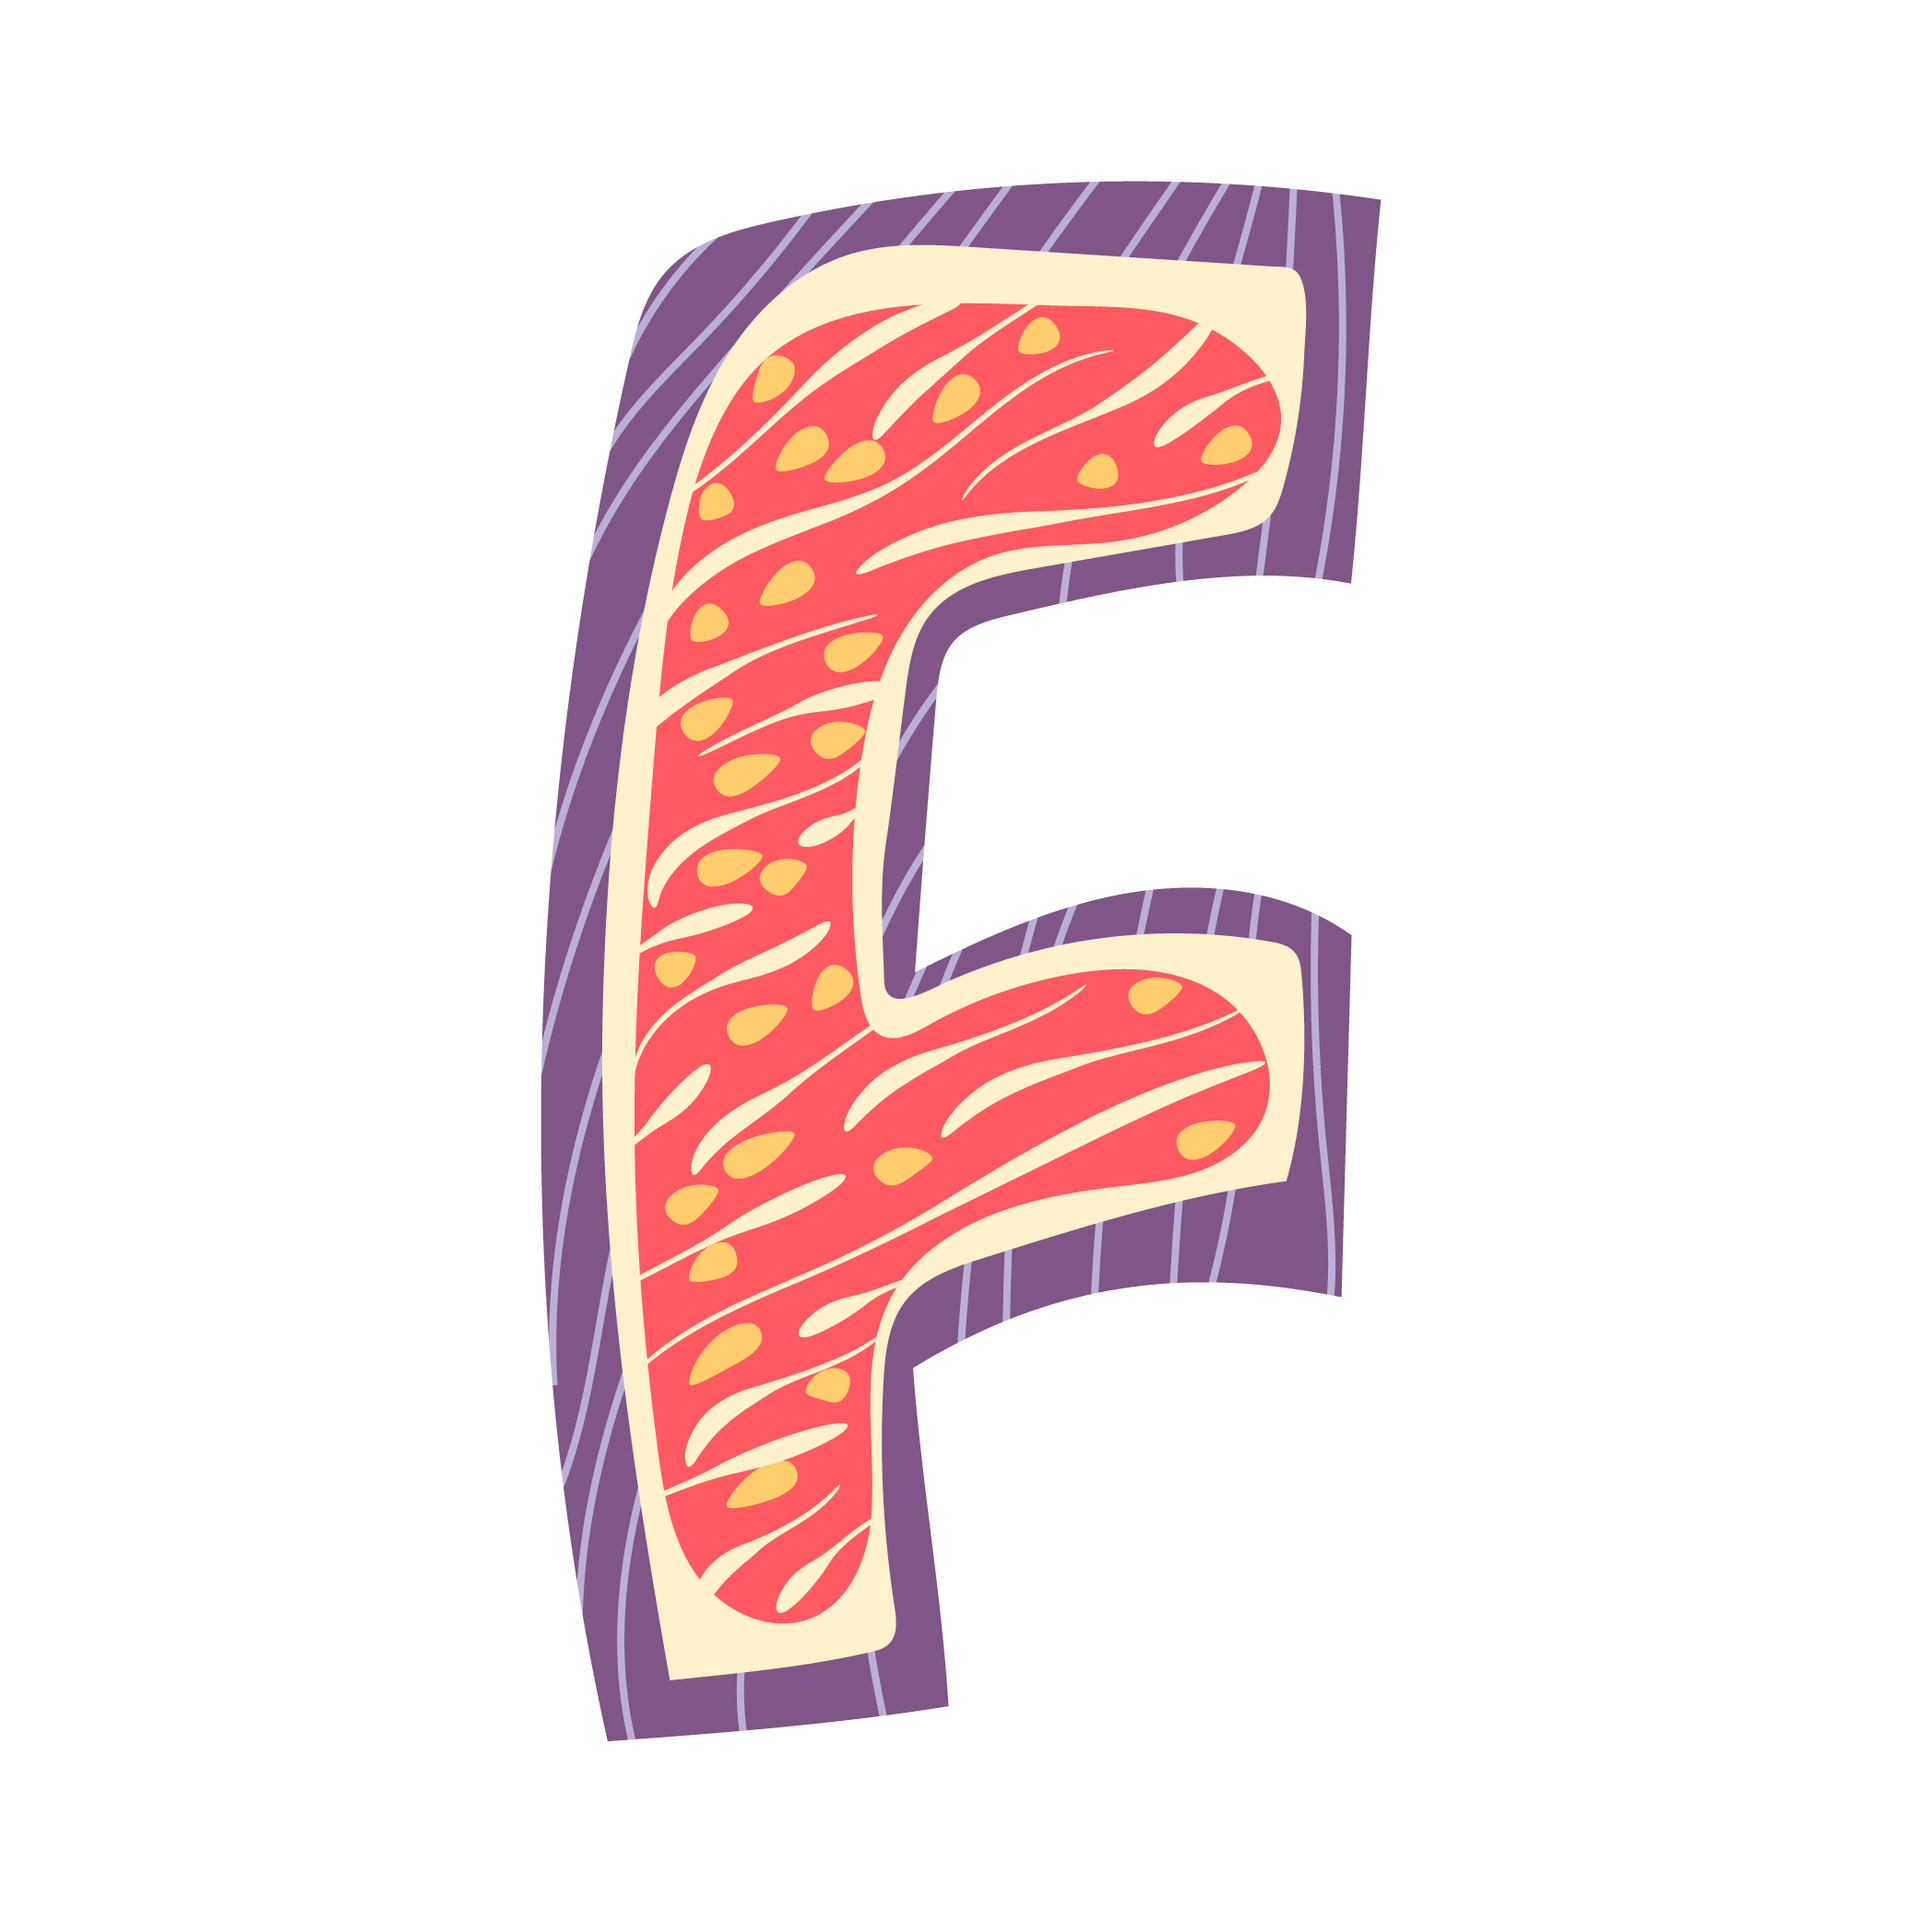
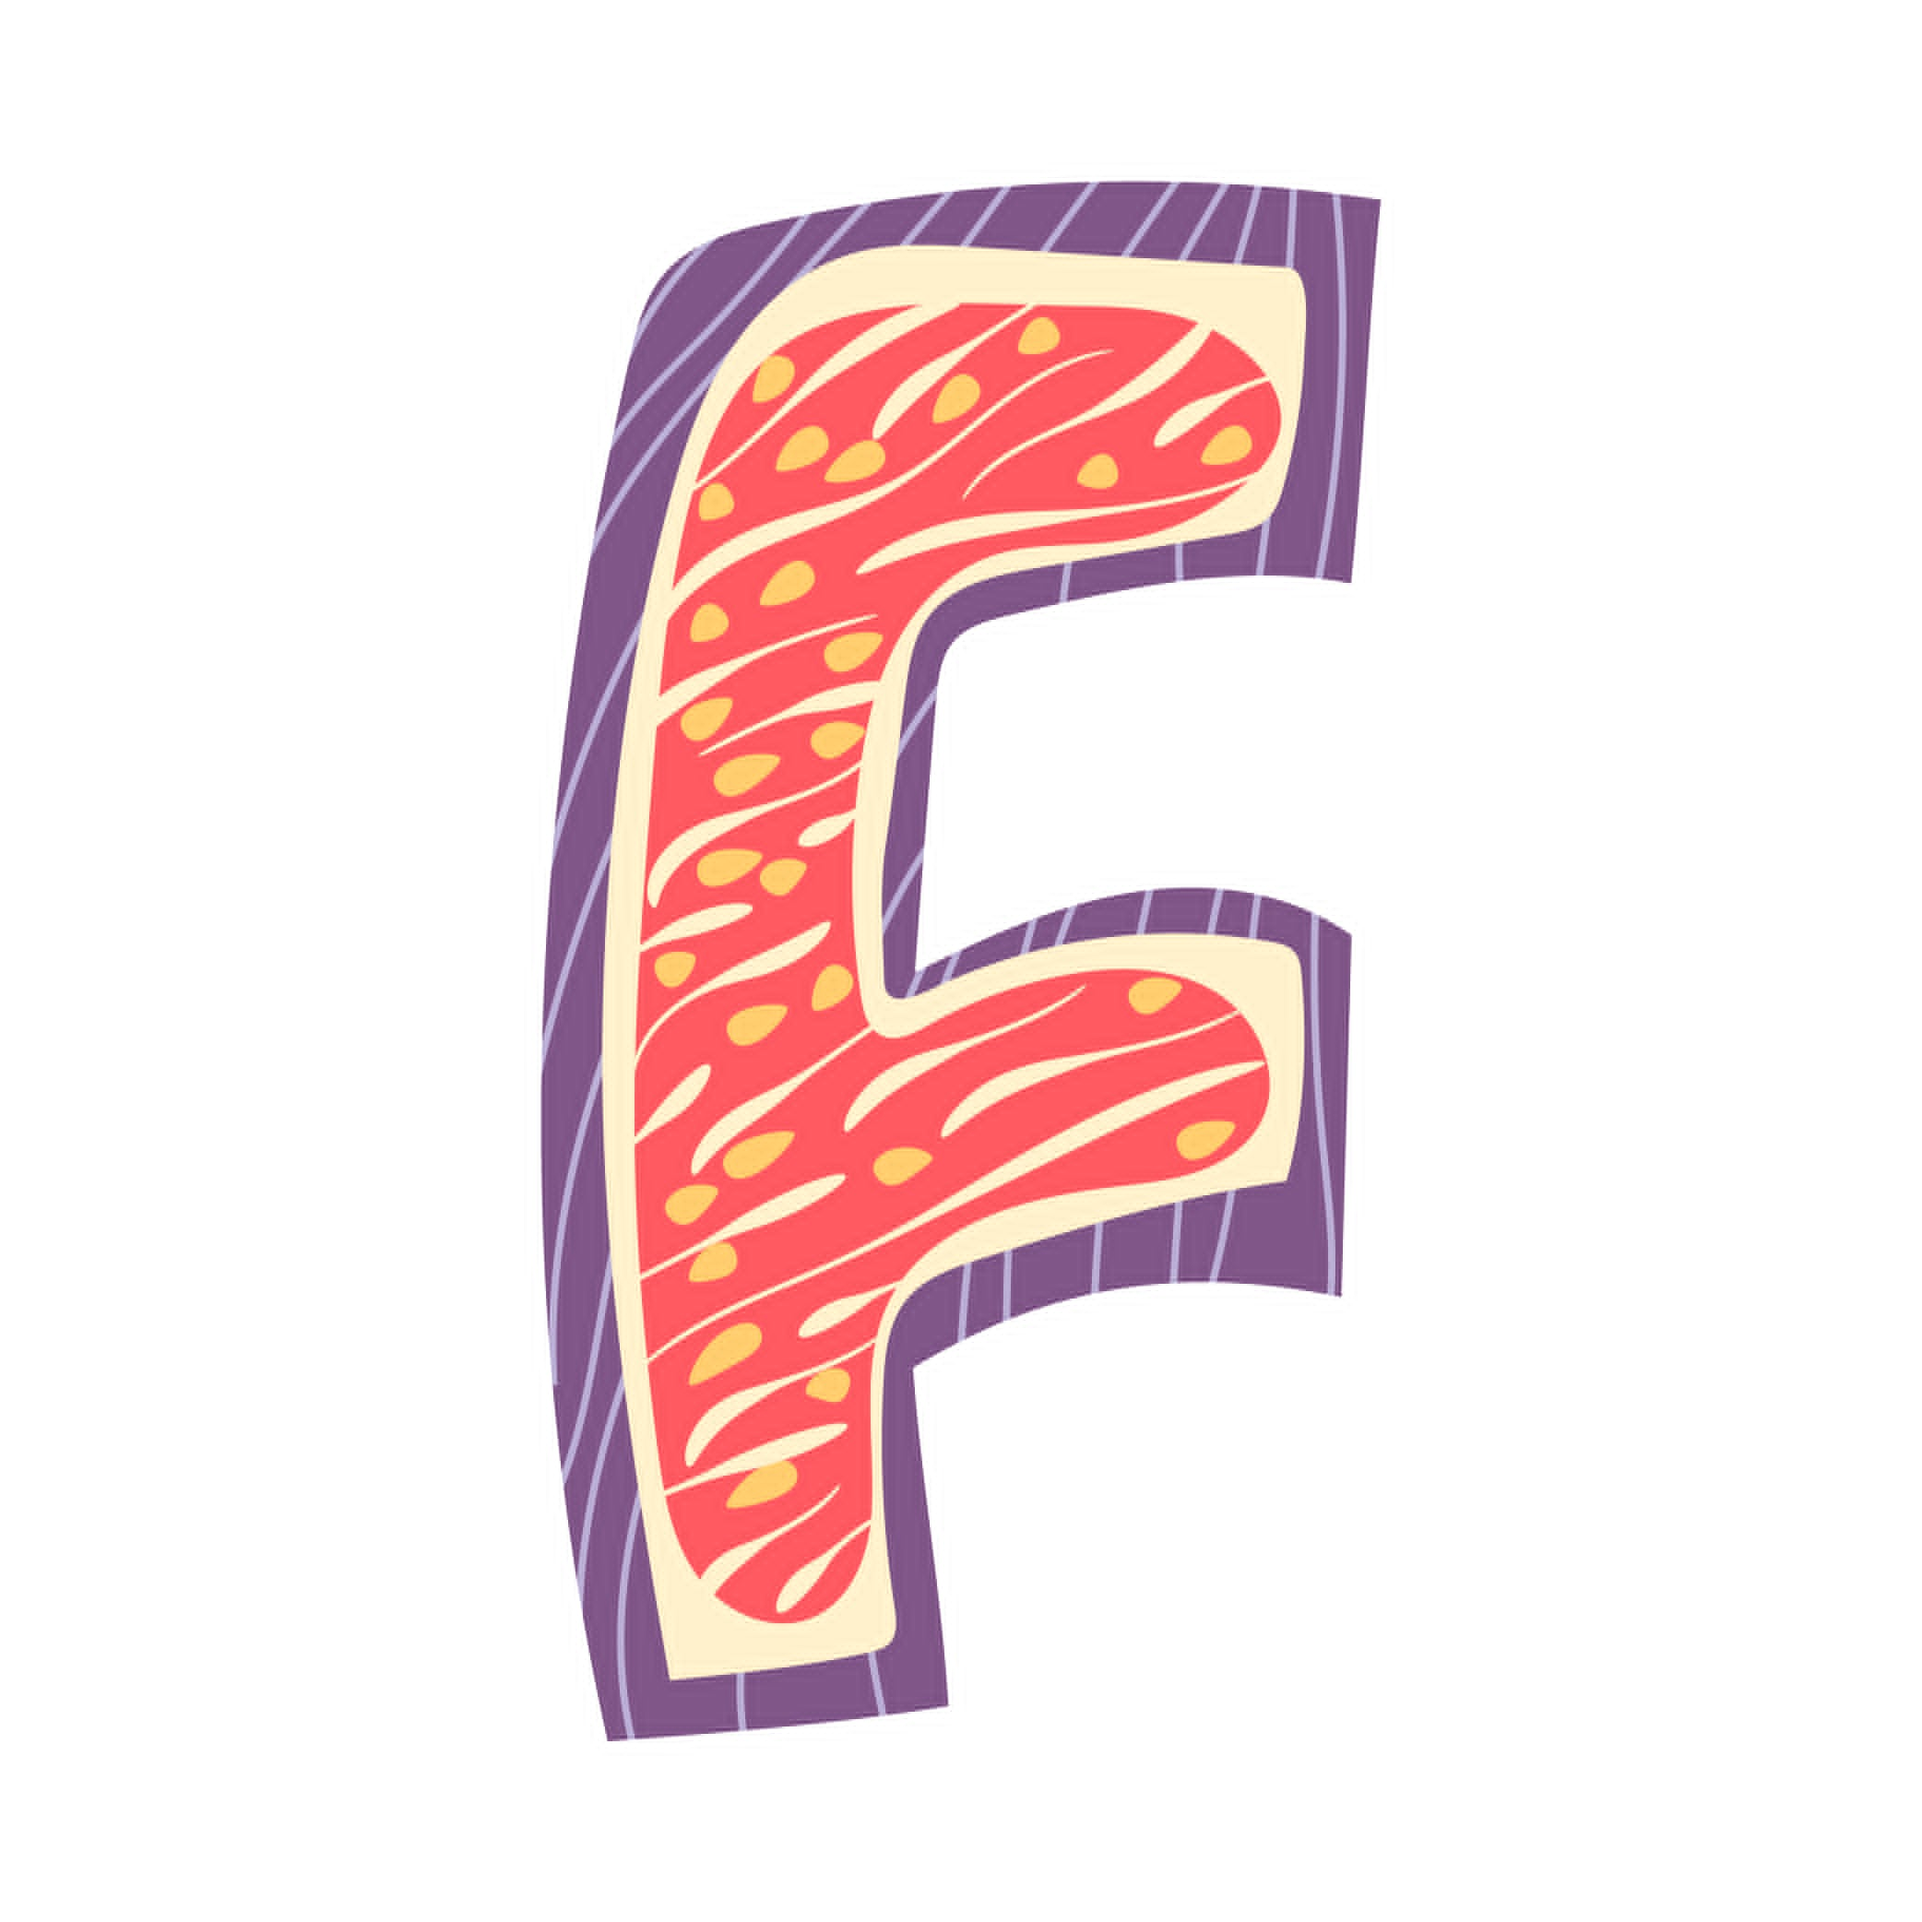
Updated letters and reverted code back to earlier version.

diff --git a/front_end/templates/front_end/letters.html b/front_end/templates/front_end/letters.html
@@ -6,16 +6,42 @@
         {% for letter, upper in letters %}
             {% if letter == "space" %}
                 <div class="ml-2 mr-2"></div>
-            {% else %}
-                <div class="coly" style="letter-spacing: {{letter_spacing}}px">
-                    <div class="letter-container">
-                        <img src="{{ letter }}" 
-                             style="width: {{ upper|yesno:"upper_width,lower_width" }}px; 
-                                    height: {{ upper|yesno:"upper_height,lower_height" }}px; 
-                                    margin-bottom: {{ upper|yesno:"0,"|add:lower_margin_top }}px;">
+            {% elif letter in narrow_list %}
+
+                {% if upper %}
+                    <div class="coly" style="letter-spacing: {{letter_spacing}}px">
+                        <img src="{{ letter }}" style="width: {{ special_width }}px; height: {{ upper_height }}px">
                     </div>
+                {% else %}
+                    <div class="coly">
+                        <img src="{{ letter }}"
+                             style="width: {{ special_width_lower }}px; height: {{ lower_height }}px; margin-top: {{ lower_margin_top }}px;">
+                    </div>
+                {% endif %}
+            {% elif letter in wide_list %}
+                {% if upper %}
+                    <div class="coly">
+                        <img src="{{ letter }}" style="width: {{ wide_width }}px; height: {{ upper_height }}px">
+                    </div>
+                {% else %}
+                    <div class="coly">
+                        <img src="{{ letter }}"
+                             style="width: {{ wide_width_lower }}px; height: {{ lower_height }}px; margin-top: {{ lower_margin_top }}px;">
+                    </div>
+                {% endif %}
+            {% elif upper %}
+                <div class="coly">
+                    <img src="{{ letter }}" style="width: {{ upper_width }}px; height: {{ upper_height }}px">
+                </div>
+            {% else %}
+                <div class="coly">
+                    <img src="{{ letter }}"
+                         style="width: {{ lower_width }}px; height: {{ lower_height }}px; margin-top: {{ lower_margin_top }}px;">
                 </div>
             {% endif %}
         {% endfor %}
     </div>
+
+
+
 {% endblock %}

diff --git a/front_end/static/front_end/style.css b/front_end/static/front_end/style.css
@@ -1,15 +1,12 @@
-img {
-    display: block;
-    margin-right: -5px;
+img{
+    margin-right: -8px;
 }
-
-.coly {
-    display: flex;
-    align-items: baseline; /* Align items to the baseline */
-}
-
-
-
-/* .letter-container {
-    display: flex;
-} */
+    
+    .upper{
+        width: 20px;
+        height: 20px
+    }
+    
+    .space{
+        margin-right: 5px;
+    }

diff --git a/front_end/views.py b/front_end/views.py
@@ -17,7 +17,8 @@ class SubmitText(View):
                 letters.append(("space", False))
             else:
                 letters.append((f'static/front_end/images/{letter}.png', False))
-
+        # letters = [(f'static/front_end/images/{letter.lower()}.png' if letter != " " else "space", letter.isupper()) for
+        #            letter in list(request.POST.get('letters'))]
         upper_width = request.POST.get('upper_width')
         upper_height = request.POST.get('upper_height')
         lower_height = request.POST.get('lower_height')
@@ -26,15 +27,18 @@ class SubmitText(View):
         lower_width_narrow = int(lower_width) - narrow_factor
         upper_width_narrow = int(upper_width) - narrow_factor
 
+            # narrow_list = ['cap-K.png', 'cap-M.png', 'm.png', 'cap-W.png', 'cap-X.png']
+            # wide_list = ['f.png', 'i.png', 'cap-I.png', 'j.png', 'l.png', 'r.png', 't.png']
         narrow_list = []
-        wide_list = []
+        wide_list = ['i']
         narrow_list = [f"static/front_end/images/{n}.png" for n in narrow_list]
         wide_list = [f"static/front_end/images/{n}.png" for n in wide_list]
 
+        print("wide list is", wide_list)
+        print('static/front_end/images/I.png' in wide_list)
         special_multiplier = 1.25
         wide_multiplier = .6
-        letter_spacing = 1
-
+        letter_spacing = 5
         context = {
             'letters': letters,
             'upper_width': upper_width,
@@ -55,6 +59,3 @@ class SubmitText(View):
             'letter_spacing': letter_spacing
         }
         return render(request, 'front_end/letters.html', context)
-
-
-
